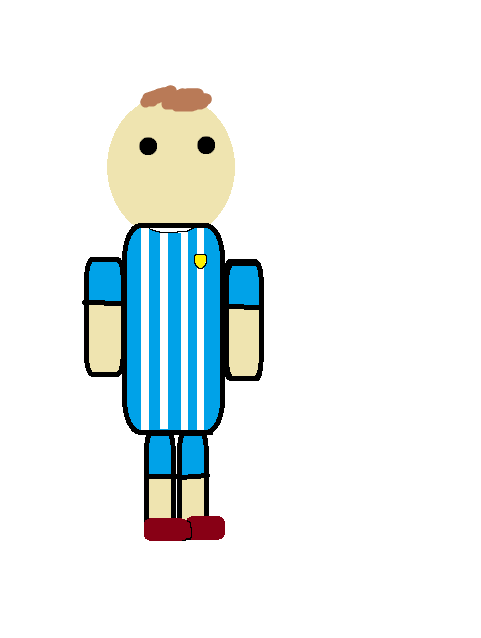
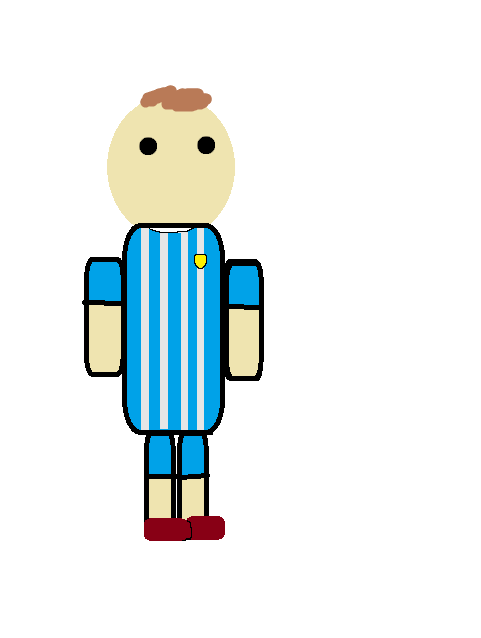
arrumando alguns personagens

Changed region(s): [[0.2807, 0.3574, 0.4366, 0.685]]

diff --git a/programa.py b/programa.py
@@ -63,7 +63,7 @@ while game:
     
     # ----- Gera saídas
     window.fill((80, 180, 80))  # Preenche com a cor de fundo
-    window.blit(bola, (0, 0))   #Coloca a imagem
+    window.blit(jogaArgentina, (0, 0))   #Coloca a imagem
     
     # ----- Atualiza estado do,  jogo
     pygame.display.update()  # Mostra o novo frame para o jogador
